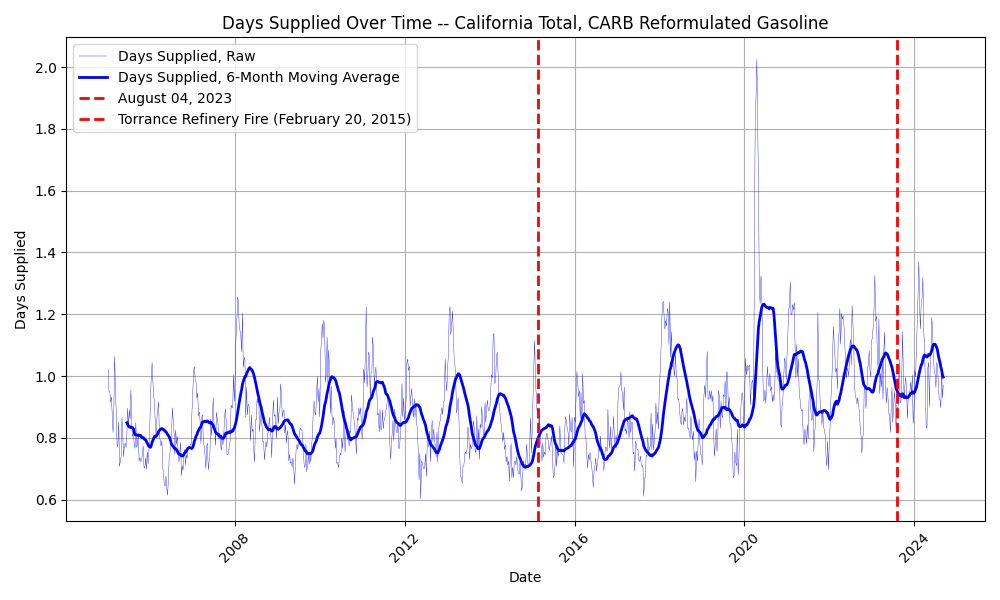
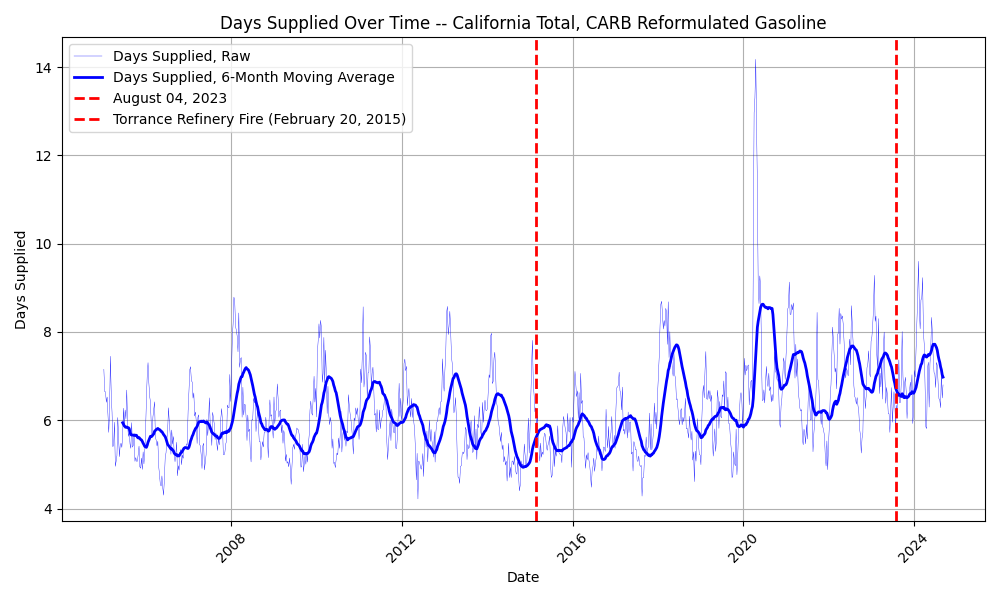
intermediate update

diff --git a/code/11_cec_stock.py b/code/11_cec_stock.py
@@ -65,8 +65,9 @@ def plot_time_series(df, value_col, title, ylabel):
     plt.show()
 
 # make a days supplied variable, which is just stocks divided by throughput
+    # multiply by 7 so that this is in terms of days, not weeks
 cec_stock_total_ca_df['Days Supplied'] = (cec_stock_total_ca_df['Stocks'] 
-                                        / cec_stock_total_ca_df['Throughput'])
+                                        / cec_stock_total_ca_df['Throughput']) * 7
 
 for var, lab in zip(['Stocks', 'Throughput', 'Days Supplied'], ['Stocks, 000s of Barrels', 
                                                                 'Throughput, 000s of Barrels', 
@@ -98,5 +99,5 @@ average_stocks_2015_2019 = df_2015_2019['Stocks'].mean()
 # Calculate the percentage of the average
 percent_of_average = (aug_4_2023_stocks / average_stocks_2015_2019) * 100
 # Calculate days of supply for August 1, 2023
-aug_4_2023_days_supplied = (aug_4_2023_stocks / aug_4_2023_throughput)
+aug_4_2023_days_supplied = (aug_4_2023_stocks / aug_4_2023_throughput) * 7
 percentile, percent_of_average, aug_4_2023_days_supplied
